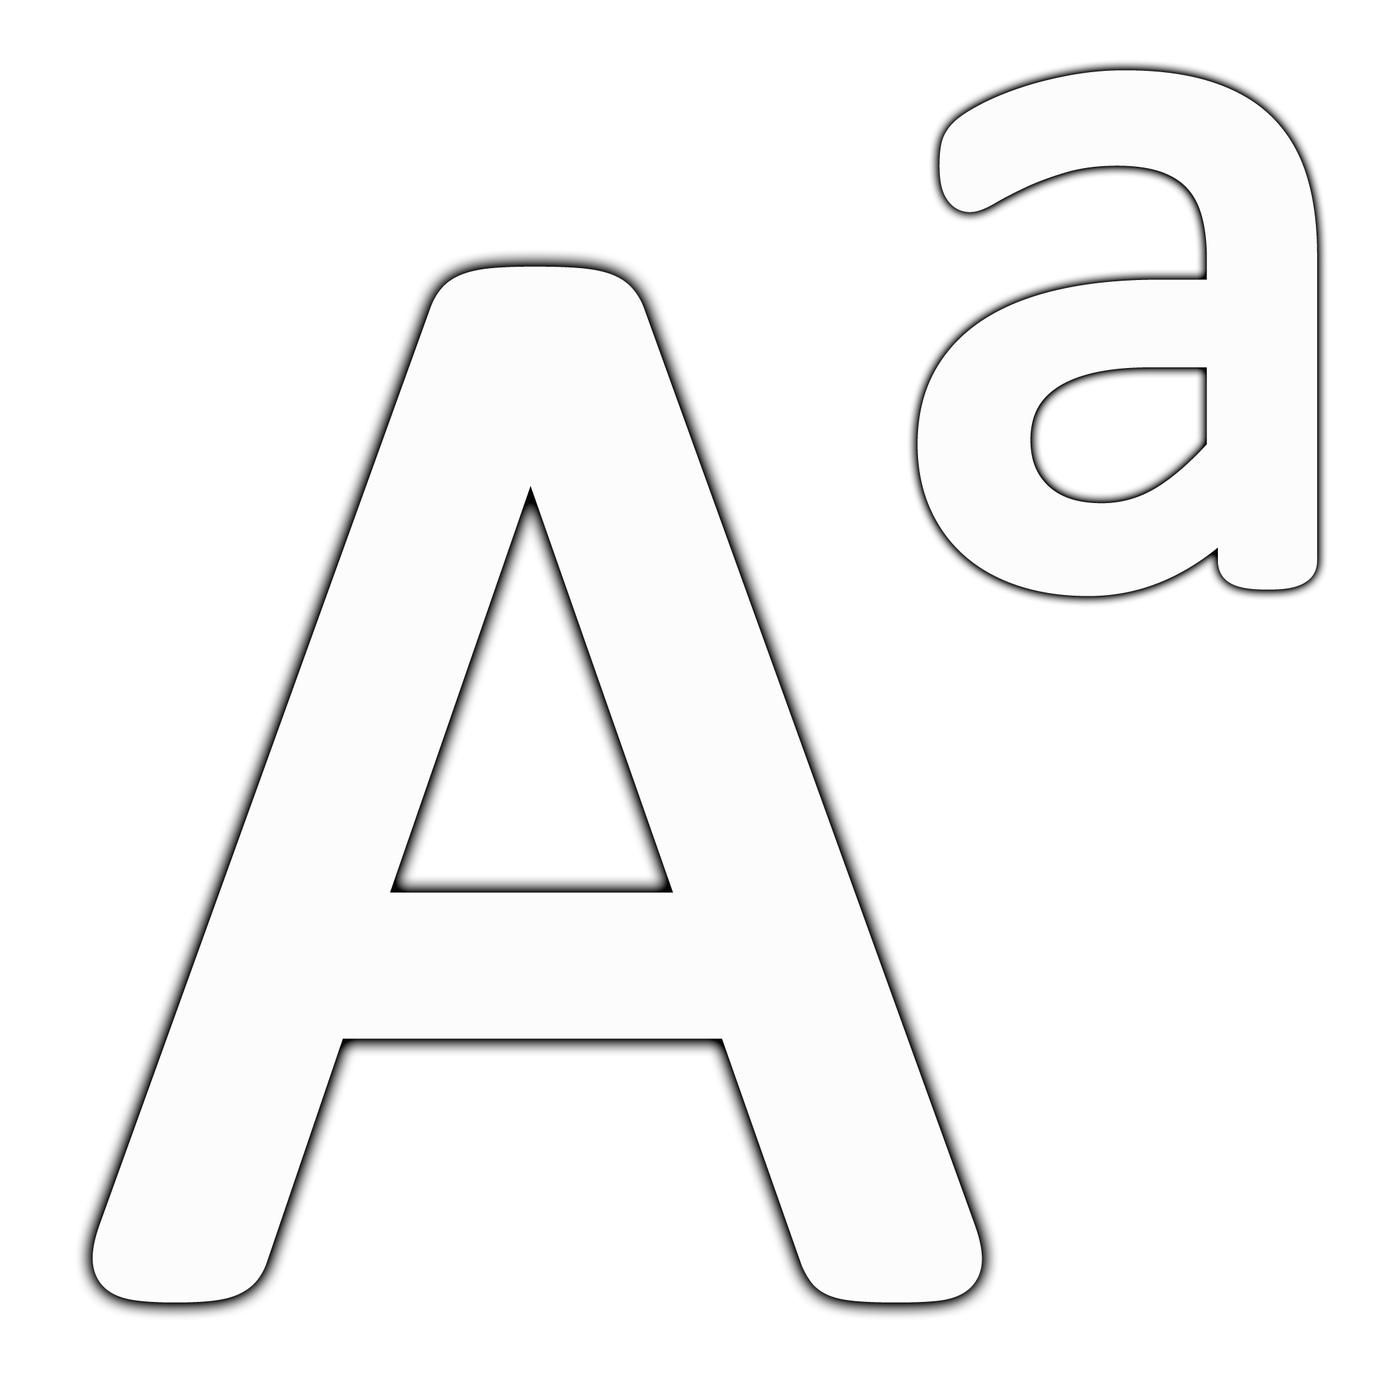
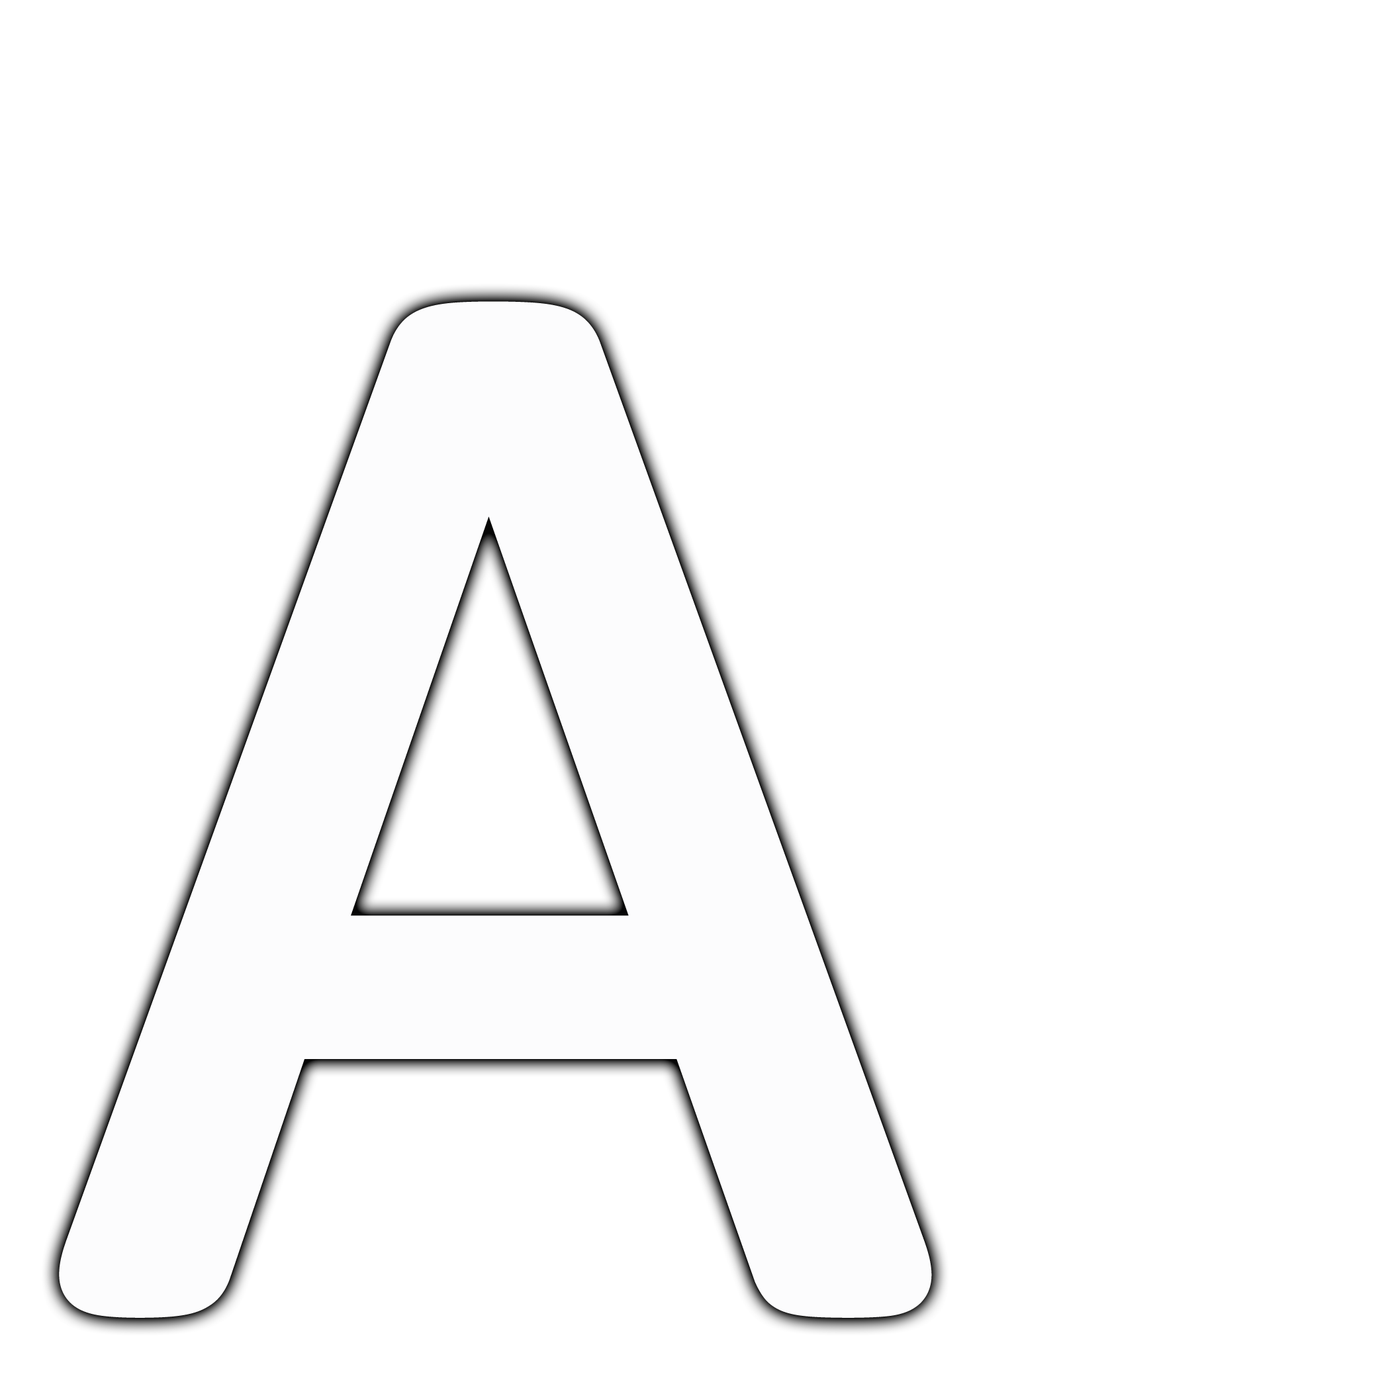
formulario diseniado de vocales

diff --git a/css/vocales.css b/css/vocales.css
@@ -49,11 +49,23 @@ div h1#TituloFrutasDulces{
 }
 .espacioVocales{
     height: 450px;
-    width: 450px;
+    width: 450px; 
+}
+.animal{
+    background-color: rgb(255, 60, 0);
+    height: 480px; 
+    right: 10px;
 }
 .animalVocal{
-    height: 500px;
-    width: 500px;
+    position: absolute;
+    top: 45px;
+    left: 0;
+    right: 0;
+    bottom: 0;
+    margin: auto;
+    pointer-events: stroke;
+    height:500px; 
+    width: 500px;  
 }
 .botones{
     background-color: blue;
@@ -78,8 +90,22 @@ div h1#TituloFrutasDulces{
     background-color: rgb(241, 232, 232);
     cursor: pointer;
 }
-.animal{
-    background-color: rgb(255, 60, 0);
-    height: 480px; 
-    right: 10px;
+.tam_miniatura{
+    position: absolute;
+    top: 0;
+    right: 0;
+    margin: auto;
+    pointer-events: stroke;
+    height:200px; 
+    width: 200px; 
+    background-color: rgb(255, 196, 0);
+}
+.view_vocal{
+    text-align: center;
+    margin-top: -130px;
+    font-size: 280px;
+    margin-left: -25px;
+    color: white;
+    font-weight: bold;
+    -webkit-text-stroke: 1.5px black;
 }

diff --git a/vocales.php b/vocales.php
@@ -25,6 +25,9 @@
     
         <div class="row cuerpo1">
             <div class="col-md-5 col-xs-12 vocal">
+                <div class="tam_miniatura">
+                    <p class="view_vocal">a</p>
+                </div>
                 <div class="espacioVocales">
                     <a href="#" > <img class="img-responsive"  src="img/vocales/a.png"> </a> 
                 </div>
@@ -40,11 +43,235 @@
                     <a href="#" > <img class="img-responsive"  src="img/vocales/abeja.png"> </a>
                 </div>
             </div>
-        </div>
-        
-
-
+        </div>        
     </div>
+        <!-- funciones de JavaScript, Squery y Json-->
+    <script>
+        $(function(){
+            listar();
+        });
+        var productos;
+        function listar(){
+                __ajax("prueba1Listar.php", "")
+                .done(function(info){                
+                     productos = JSON.parse(info); //cambiarlo por curso despues                             
+                });            
+        }            
+       
+        //INICIALIZACION
+        $(".siguiente").html("<a href='#' onClick='siguientes()' > <img class='img-responsive img-circle' src='img/frutas/manzanaVerde.png'> </a>");
+        //INICIO DE CONDICIONES PARA IR CAMBIANDO IMAGENES
+       
+        function siguientes(){ 
+            var prueba = document.getElementById("titulos").innerHTML ; //obtengo el valor del texto de la etiqueta para se comparado                                                        
+            //FRUTA 2
+            if(prueba=="Manzana Roja"){                                                                                                
+                for(var i in productos.data){                                          
+                    var nom = new Array();                                                           
+                    nom= [productos.data[i].idImagenes];                                                                                                                   
+                    if(nom==2){                                                             
+                        var x=(productos.data[i].nombreImagen);                                                           
+                        $("#titulos").html(x);//SobreEscribe NuevoNombre 
+                        //SobrePone ImagenNuevo
+                        $("#fruta").html("<a href='#' onmousedown='voz2.play()'> <img class='img-responsive img-circle' src='img/frutas/manzanaVerde.png'> </a>");
+                        //SobrePone imagen View Minieatura
+                        $(".siguiente").html("<a href='#' onClick='siguientes()' > <img class='img-responsive img-circle' src='img/frutas/Papaya.png'> </a>");
+                        //var frutNex = "Abecedarios";
+                        //$("#cambiar").html(frutNex);                      
+                        $(".anterior").html("<a href='#' > <img class='img-responsive img-circle' src='img/frutas/manzana_roja.png'> </a>");
+                    }                                                                                                 
+                }                                                                                                                                  
+            } 
+
+        }       
+                 
+        // imagen previus
+        /*
+        function previus(){ 
+            var prueba = document.getElementById("titulos").innerHTML ; //obtengo el valor del texto de la etiqueta para se comparado                                                        
+            //FRUTA 1
+            if(prueba=="Manzana Verde"){                                                                                                
+                for(var i in productos.data){                                          
+                    var nom = new Array();                                                           
+                    nom= [productos.data[i].idImagenes];                                                                                                                   
+                    if(nom==1){                                                             
+                        var x=(productos.data[i].nombreImagen);                                                           
+                        $("#titulos").html(x);//SobreEscribe NuevoNombre 
+                        //SobrePone ImagenNuevo CENTRO
+                        $("#fruta").html("<a href='#' onmousedown='voz1.play()'> <img class='img-responsive img-circle' src='img/frutas/manzana_roja.png'> </a>");
+                        //SobrePone imagen View Minieatura SIGUIENTE
+                        $(".siguiente").html("<a href='#' onClick='siguientes()' > <img class='img-responsive img-circle' src='img/frutas/manzanaVerde.png'> </a>");
+                        //Miniatura view ANTERIOR
+                        $(".anterior").html("<a href='#' > <img class='img-responsive img-circle' src='img/frutas/manzana_roja.png'> </a>");
+                    }                                                                                                 
+                }                                                                                                                                  
+            } 
+            //FRUTA 2
+            if(prueba=="Papaya"){                                                                                                
+                for(var i in productos.data){                                          
+                    var nom = new Array();                                                           
+                    nom= [productos.data[i].idImagenes];                                                                                                                   
+                    if(nom==2){                                                             
+                        var x=(productos.data[i].nombreImagen);                                                           
+                        $("#titulos").html(x);//SobreEscribe NuevoNombre 
+                        //SobrePone ImagenNuevo CENTRO
+                        $("#fruta").html("<a href='#' onmousedown='voz2.play()'> <img class='img-responsive img-circle' src='img/frutas/manzanaVerde.png'> </a>");
+                        //SobrePone imagen View Minieatura SIGUIENTE
+                        $(".siguiente").html("<a href='#' onClick='siguientes()' > <img class='img-responsive img-circle' src='img/frutas/Papaya.png'> </a>");
+                        //Miniatura view ANTERIOR
+                        $(".anterior").html("<a href='#' > <img class='img-responsive img-circle' src='img/frutas/manzana_roja.png'> </a>");
+                    }                                                                                                 
+                }                                                                                                                                  
+            }
+            //FRUTA 3
+            if(prueba=="Pera"){                                                                                                
+                for(var i in productos.data){                                          
+                    var nom = new Array();                                                           
+                    nom= [productos.data[i].idImagenes];                                                                                                                   
+                    if(nom==3){                                                             
+                        var x=(productos.data[i].nombreImagen);                                                           
+                        $("#titulos").html(x);//SobreEscribe NuevoNombre 
+                        //SobrePone ImagenNuevo CENTRO
+                        $("#fruta").html("<a href='#' onmousedown='voz3.play()'> <img class='img-responsive img-circle' src='img/frutas/Papaya.png'> </a>");
+                        //SobrePone imagen View Minieatura SIGUIENTE
+                        $(".siguiente").html("<a href='#' onClick='siguientes()' > <img class='img-responsive img-circle' src='img/frutas/Pera.png'> </a>");
+                        //Miniatura view ANTERIOR
+                        $(".anterior").html("<a href='#' > <img class='img-responsive img-circle' src='img/frutas/manzanaVerde.png'> </a>");
+                    }                                                                                                 
+                }                                                                                                                                  
+            } 
+            //FRUTA 4
+            if(prueba=="Sandia"){                                                                                                
+                for(var i in productos.data){                                          
+                    var nom = new Array();                                                           
+                    nom= [productos.data[i].idImagenes];                                                                                                                   
+                    if(nom==4){                                                             
+                        var x=(productos.data[i].nombreImagen);                                                           
+                        $("#titulos").html(x);//SobreEscribe NuevoNombre 
+                        //SobrePone ImagenNuevo CENTRO
+                        $("#fruta").html("<a href='#' onmousedown='voz4.play()'> <img class='img-responsive img-circle' src='img/frutas/Pera.png'> </a>");
+                        //SobrePone imagen View Minieatura SIGUIENTE
+                        $(".siguiente").html("<a href='#' onClick='siguientes()' > <img class='img-responsive img-circle' src='img/frutas/Sandia.png'> </a>");
+                        //Miniatura view ANTERIOR
+                        $(".anterior").html("<a href='#' > <img class='img-responsive img-circle' src='img/frutas/Papaya.png'> </a>");
+                    }                                                                                                 
+                }                                                                                                                                  
+            }
+            //FRUTA 5
+            if(prueba=="Uva"){                                                                                                
+                for(var i in productos.data){                                          
+                    var nom = new Array();                                                           
+                    nom= [productos.data[i].idImagenes];                                                                                                                   
+                    if(nom==5){                                                             
+                        var x=(productos.data[i].nombreImagen);                                                           
+                        $("#titulos").html(x);//SobreEscribe NuevoNombre 
+                        //SobrePone ImagenNuevo CENTRO
+                        $("#fruta").html("<a href='#' onmousedown='voz5.play()'> <img class='img-responsive img-circle' src='img/frutas/Sandia.png'> </a>");
+                        //SobrePone imagen View Minieatura SIGUIENTE
+                        $(".siguiente").html("<a href='#' onClick='siguientes()' > <img class='img-responsive img-circle' src='img/frutas/Uva.png'> </a>");
+                        //Miniatura view ANTERIOR
+                        $(".anterior").html("<a href='#' > <img class='img-responsive img-circle' src='img/frutas/Pera.png'> </a>");
+                    }                                                                                                 
+                }                                                                                                                                  
+            }
+            //FRUTA 6
+            if(prueba=="Zapote"){                                                                                                
+                for(var i in productos.data){                                          
+                    var nom = new Array();                                                           
+                    nom= [productos.data[i].idImagenes];                                                                                                                   
+                    if(nom==6){                                                             
+                        var x=(productos.data[i].nombreImagen);                                                           
+                        $("#titulos").html(x);//SobreEscribe NuevoNombre 
+                        //SobrePone ImagenNuevo CENTRO
+                        $("#fruta").html("<a href='#' onmousedown='voz6.play()'> <img class='img-responsive img-circle' src='img/frutas/Uva.png'> </a>");
+                        //SobrePone imagen View Minieatura SIGUIENTE
+                        $(".siguiente").html("<a href='#' onClick='siguientes()' > <img class='img-responsive img-circle' src='img/frutas/Zapote.png'> </a>");
+                        //Miniatura view ANTERIOR
+                        $(".anterior").html("<a href='#' > <img class='img-responsive img-circle' src='img/frutas/Sandia.png'> </a>");
+                    }                                                                                                 
+                }                                                                                                                                  
+            }
+            //FRUTA 7
+            if(prueba=="Guayaba"){                                                                                                
+                for(var i in productos.data){                                          
+                    var nom = new Array();                                                           
+                    nom= [productos.data[i].idImagenes];                                                                                                                   
+                    if(nom==7){                                                             
+                        var x=(productos.data[i].nombreImagen);                                                           
+                        $("#titulos").html(x);//SobreEscribe NuevoNombre 
+                        //SobrePone ImagenNuevo CENTRO
+                        $("#fruta").html("<a href='#' onmousedown='voz7.play()'> <img class='img-responsive img-circle' src='img/frutas/Zapote.png'> </a>");
+                        //SobrePone imagen View Minieatura SIGUIENTE
+                        $(".siguiente").html("<a href='#' onClick='siguientes()' > <img class='img-responsive img-circle' src='img/frutas/Guayaba.png'> </a>");
+                        //Miniatura view ANTERIOR
+                        $(".anterior").html("<a href='#' > <img class='img-responsive img-circle' src='img/frutas/Uva.png'> </a>");
+                    }                                                                                                 
+                }                                                                                                                                  
+            }
+            //FRUTA 8
+            if(prueba=="Higo"){                                                                                                
+                for(var i in productos.data){                                          
+                    var nom = new Array();                                                           
+                    nom= [productos.data[i].idImagenes];                                                                                                                   
+                    if(nom==8){                                                             
+                        var x=(productos.data[i].nombreImagen);                                                           
+                        $("#titulos").html(x);//SobreEscribe NuevoNombre 
+                        //SobrePone ImagenNuevo CENTRO
+                        $("#fruta").html("<a href='#' onmousedown='voz8.play()'> <img class='img-responsive img-circle' src='img/frutas/Guayaba.png'> </a>");
+                        //SobrePone imagen View Minieatura SIGUIENTE
+                        $(".siguiente").html("<a href='#' onClick='siguientes()' > <img class='img-responsive img-circle' src='img/frutas/Higo.png'> </a>");
+                        //Miniatura view ANTERIOR
+                        $(".anterior").html("<a href='#' > <img class='img-responsive img-circle' src='img/frutas/Zapote.png'> </a>");
+                    }                                                                                                 
+                }                                                                                                                                  
+            }
+            //FRUTA 9
+            if(prueba=="Banano"){                                                                                                
+                for(var i in productos.data){                                          
+                    var nom = new Array();                                                           
+                    nom= [productos.data[i].idImagenes];                                                                                                                   
+                    if(nom==9){                                                             
+                        var x=(productos.data[i].nombreImagen);                                                           
+                        $("#titulos").html(x);//SobreEscribe NuevoNombre 
+                        //SobrePone ImagenNuevo CENTRO
+                        $("#fruta").html("<a href='#' onmousedown='voz9.play()'> <img class='img-responsive img-circle' src='img/frutas/Higo.png'> </a>");
+                        //SobrePone imagen View Minieatura SIGUIENTE
+                        $(".siguiente").html("<a href='#' onClick='siguientes()' > <img class='img-responsive img-circle' src='img/frutas/Banano.png'> </a>");
+                        //Miniatura view ANTERIOR
+                        $(".anterior").html("<a href='#' > <img class='img-responsive img-circle' src='img/frutas/Guayaba.png'> </a>");
+                    }                                                                                                 
+                }                                                                                                                                  
+            }
+            //FRUTA 10
+            if(prueba=="Melon"){                                                                                                
+                for(var i in productos.data){                                          
+                    var nom = new Array();                                                           
+                    nom= [productos.data[i].idImagenes];                                                                                                                   
+                    if(nom==10){                                                             
+                        var x=(productos.data[i].nombreImagen);                                                           
+                        $("#titulos").html(x);//SobreEscribe NuevoNombre 
+                        //SobrePone ImagenNuevo CENTRO
+                        $("#fruta").html("<a href='#' onmousedown='voz10.play()'> <img class='img-responsive img-circle' src='img/frutas/Banano.png'> </a>");
+                        //SobrePone imagen View Minieatura SIGUIENTE
+                        $(".siguiente").html("<a href='#' onClick='siguientes()' > <img class='img-responsive img-circle' src='img/frutas/Melon.png'> </a>");
+                        //Miniatura view ANTERIOR
+                        $(".anterior").html("<a href='#' > <img class='img-responsive img-circle' src='img/frutas/Higo.png'> </a>");
+                    }                                                                                                 
+                }                                                                                                                                  
+            }
+
+        } */        
+        function __ajax(url, data){
+            var ajax = $.ajax({
+                "method": "POST",
+                "url": url,
+                "data": data
+            })
+            return ajax;
+        }
+
+    
+    </script>
     <script src="js/vocales.js" ></script>
 </body>
 </html>
